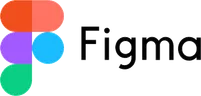
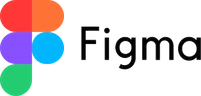
Rework the Tools we work with strip
Logos now get equal visual area (sized from each file's pixel size in
pricingdata.js) with a constant gap, on a transparent strip. The list is
updated to current brands and grouped by type: adds Optimizely,
Intelligems, Shoplift, ABConvert, Kameleoon, Webtrends Optimize,
Omniconvert, LaunchDarkly, Fullstory, Unbounce and WordPress; VWO
becomes Wingify after its merger with AB Tasty; Figma gets its new
colours; removes AB Tasty, Shopify Plus, SiteSpect/Monetate and the two
Goals images. The marquee loop slows to 85s to keep the same speed with
20 logos.

Changed region(s): [[0.0, 0.0, 0.3284, 1.0]]

diff --git a/src/data/pricingdata.js b/src/data/pricingdata.js
@@ -155,25 +155,35 @@ export const devPlans = [
 ];
 
 // "Tools we work with" marquees on /pricing (hero and under the plans).
-// Each logo is public/assets/tools/<slug>.webp, trimmed to 96px tall.
-const tool = (name, slug) => ({ name, logo: `/assets/tools/${slug}.webp` });
+// Each logo is public/assets/tools/<slug>.webp; w and h are the file's pixel
+// size, used to give every logo the same visual area in the strip.
+const tool = (name, slug, w, h) => ({ name, logo: `/assets/tools/${slug}.webp`, w, h });
 export const toolsStrip = {
   heading: "Tools we work with",
   tools: [
-    tool("Goals Building", "goals-building"),
-    tool("Goal Verification", "goal-verification"),
-    tool("AB Tasty", "ab-tasty"),
-    tool("Convert", "convert"),
-    tool("SiteSpect", "sitespect"),
-    tool("Varify.io", "varify"),
-    tool("VWO", "vwo"),
-    tool("Microsoft Clarity", "clarity"),
-    tool("Google Analytics", "google-analytics"),
-    tool("Figma", "figma"),
-    tool("Google Lighthouse", "google-lighthouse"),
-    tool("Google Tag Manager", "google-tag-manager"),
-    tool("Shopify", "shopify"),
-    tool("Shopify Plus", "shopify-plus"),
+    // A/B testing and experimentation
+    tool("Optimizely", "optimizely", 393, 96),
+    tool("Wingify (VWO + AB Tasty)", "wingify", 311, 96),
+    tool("Convert", "convert", 270, 59),
+    tool("ABConvert", "abconvert", 497, 96),
+    tool("Kameleoon", "kameleoon", 702, 96),
+    tool("Webtrends Optimize", "webtrends-optimize", 178, 41),
+    tool("Omniconvert", "omniconvert", 380, 70),
+    tool("Intelligems", "intelligems", 495, 96),
+    tool("Shoplift", "shoplift", 367, 96),
+    tool("Varify.io", "varify", 300, 96),
+    tool("LaunchDarkly", "launchdarkly", 624, 96),
+    // Analytics and performance
+    tool("Google Analytics", "google-analytics", 279, 96),
+    tool("Google Tag Manager", "google-tag-manager", 164, 96),
+    tool("Microsoft Clarity", "clarity", 348, 96),
+    tool("Fullstory", "fullstory", 516, 96),
+    tool("Google Lighthouse", "google-lighthouse", 333, 96),
+    // Design, landing pages and platforms
+    tool("Figma", "figma", 201, 96),
+    tool("Unbounce", "unbounce", 488, 96),
+    tool("Shopify", "shopify", 336, 96),
+    tool("WordPress", "wordpress", 470, 96),
   ],
 };
 

diff --git a/src/components/ToolsMarquee/ToolsMarquee.jsx b/src/components/ToolsMarquee/ToolsMarquee.jsx
@@ -10,12 +10,28 @@ import styles from "./ToolsMarquee.module.css";
 // `hideHeading` keeps the heading for screen readers only.
 const COPIES = 4; // keep in sync with the -25% in ToolsMarquee.module.css
 
+// Every logo gets the same area (px², desktop) instead of the same box, so wide
+// wordmarks and compact icons look equally big. CSS scales it down on phones.
+const LOGO_AREA = 3400;
+
 // Eager, not lazy: copies off to the side would otherwise appear blank as they slide in.
-const Tool = ({ name, logo, copy }) => (
-  <li className={styles.tool} aria-hidden={copy > 0 || undefined}>
-    <img src={logo} alt={copy > 0 ? "" : name} width="140" height="48" decoding="async" className={styles.logo} />
-  </li>
-);
+const Tool = ({ name, logo, w, h, copy }) => {
+  const height = Math.round(Math.sqrt((LOGO_AREA * h) / w));
+  const width = Math.round((height * w) / h);
+  return (
+    <li className={styles.tool} aria-hidden={copy > 0 || undefined}>
+      <img
+        src={logo}
+        alt={copy > 0 ? "" : name}
+        width={width}
+        height={height}
+        style={{ "--w": width, "--h": height }}
+        decoding="async"
+        className={styles.logo}
+      />
+    </li>
+  );
+};
 
 const ToolsMarquee = ({ reverse = false, compact = false, hideHeading = false }) => {
   const headingId = useId();

diff --git a/src/components/ToolsMarquee/ToolsMarquee.module.css b/src/components/ToolsMarquee/ToolsMarquee.module.css
@@ -25,7 +25,7 @@
   margin: 0;
   padding: 0;
   list-style: none;
-  animation: scroll 60s linear infinite
+  animation: scroll 85s linear infinite
 }
 .viewport:hover .track {
   animation-play-state: paused
@@ -48,19 +48,19 @@
 }
 /* Spacing is a right margin on every logo (not flex gap), so each copy is
    exactly a quarter of the track and the -25% loop has no jump. */
+/* Logo size comes from --w/--h (set in ToolsMarquee.jsx so all logos have
+   equal area); slots hug the logo so the gap between logos is constant. */
 .tool {
+  --logo-scale: 1;
   display: flex;
-  height: 48px;
+  height: 72px;
   flex-shrink: 0;
   align-items: center;
-  margin-right: 56px
+  margin-right: 64px
 }
-/* Every logo gets the same box and scales to fit it (no stretching), so wide
-   wordmarks and square icons read at the same size. Original colours on
-   transparent backgrounds. */
 .logo {
-  width: 140px;
-  height: 48px;
+  width: calc(var(--w) * var(--logo-scale) * 1px);
+  height: calc(var(--h) * var(--logo-scale) * 1px);
   object-fit: contain
 }
 @media (max-width:767.98px) {
@@ -68,7 +68,9 @@
     padding: 36px 0
   }
   .tool {
-    margin-right: 40px
+    --logo-scale: 0.8;
+    height: 56px;
+    margin-right: 44px
   }
 }
 @media (prefers-reduced-motion:reduce) {
